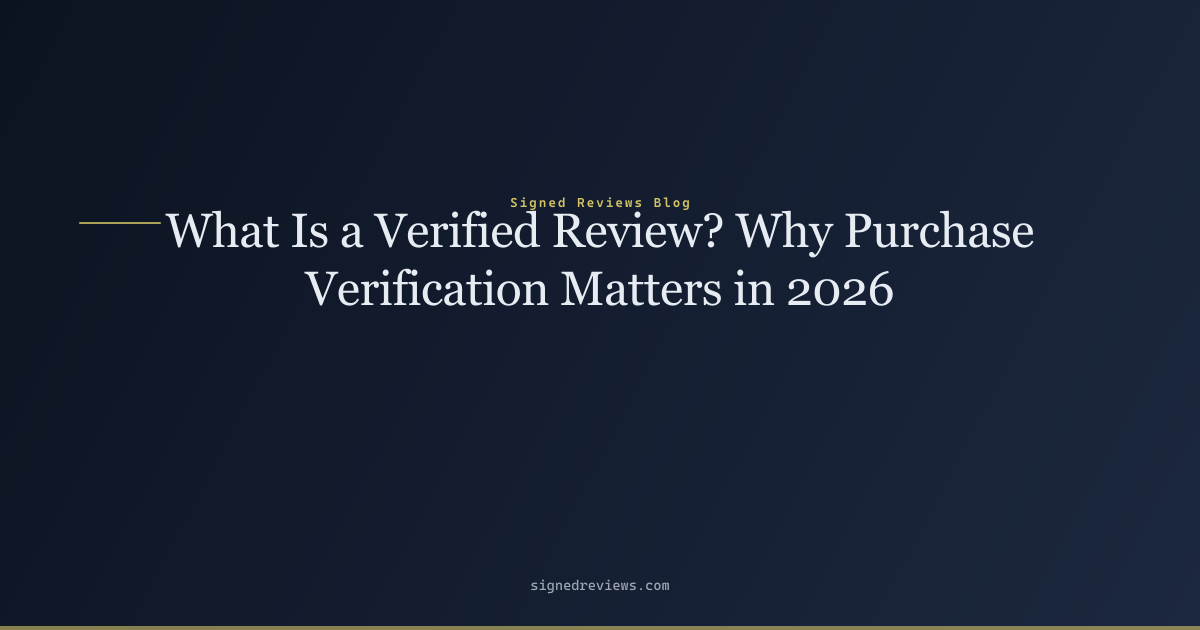
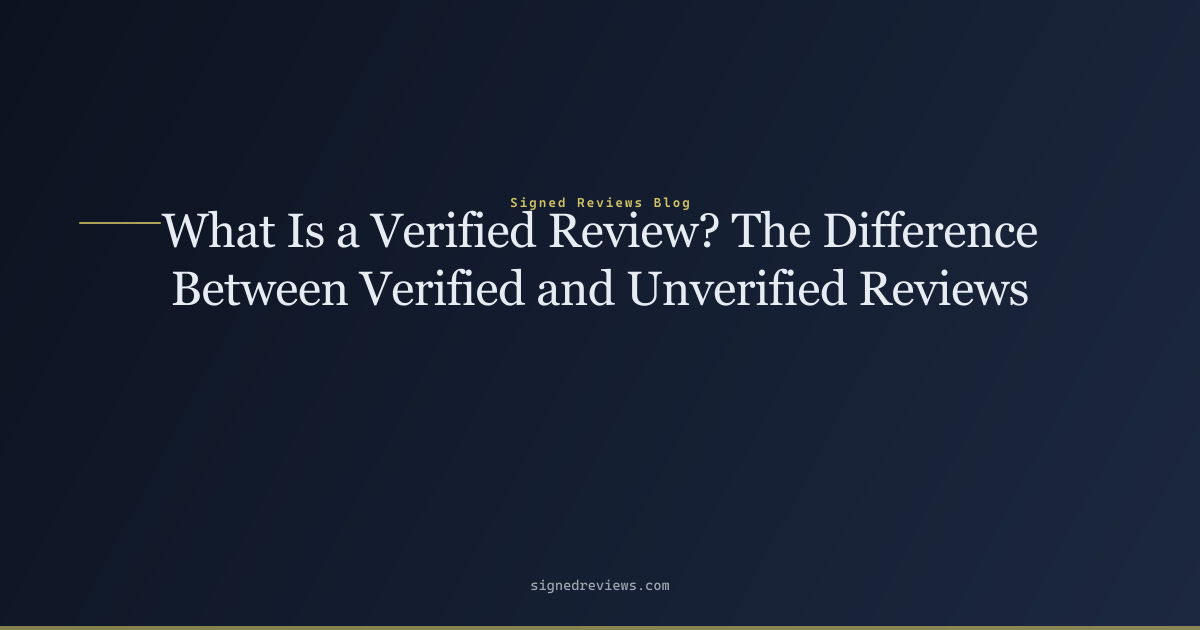
SEO: improve difference between verified and unverified reviews
- Title now contains exact keyword phrase
- Meta description includes keyword
- New H2: 'The difference between verified and unverified reviews'
- Body mentions: 3x natural placements
- Internal links to /how-it-works/ and /pricing/

Changed region(s): [[0.1233, 0.4222, 0.8633, 0.4825], [0.1233, 0.3317, 0.8633, 0.3921]]

diff --git a/blog/what-is-a-verified-review/index.html b/blog/what-is-a-verified-review/index.html
@@ -3,21 +3,21 @@
 <head>
   <meta charset="UTF-8">
   <meta name="viewport" content="width=device-width, initial-scale=1.0">
-  <title>What Is a Verified Review? Why Purchase Verification Matters in 2026 — Signed Reviews Blog</title>
-  <meta name="description" content="What is a verified review? It's a review tied to proof of a real purchase — independently confirmed, not self-attested. Here's how verification works and why it">
+  <title>What Is a Verified Review? The Difference Between Verified and Unverified Reviews — Signed Reviews Blog</title>
+  <meta name="description" content="What is a verified review, and what makes it &quot;verified&quot;?">
   <link rel="canonical" href="https://signedreviews.com/blog/what-is-a-verified-review/">
   <meta name="robots" content="index, follow">
   <meta name="theme-color" content="#0c1320">
 
   <meta property="og:type" content="website">
-  <meta property="og:title" content="What Is a Verified Review? Why Purchase Verification Matters in 2026 — Signed Reviews Blog">
-  <meta property="og:description" content="What is a verified review? It's a review tied to proof of a real purchase — independently confirmed, not self-attested. Here's how verification works and why it">
+  <meta property="og:title" content="What Is a Verified Review? The Difference Between Verified and Unverified Reviews — Signed Reviews Blog">
+  <meta property="og:description" content="What is a verified review, and what makes it &quot;verified&quot;?">
   <meta property="og:url" content="https://signedreviews.com/blog/what-is-a-verified-review/">
   <meta property="og:site_name" content="Signed Reviews">
   <meta property="og:image" content="https://signedreviews.com/images/SignedReviews_full_logo.png">
   <meta name="twitter:card" content="summary_large_image">
-  <meta name="twitter:title" content="What Is a Verified Review? Why Purchase Verification Matters in 2026 — Signed Reviews Blog">
-  <meta name="twitter:description" content="What is a verified review? It's a review tied to proof of a real purchase — independently confirmed, not self-attested. Here's how verification works and why it">
+  <meta name="twitter:title" content="What Is a Verified Review? The Difference Between Verified and Unverified Reviews — Signed Reviews Blog">
+  <meta name="twitter:description" content="What is a verified review, and what makes it &quot;verified&quot;?">
 
   <link rel="icon" href="/SignedReviews/favicon.svg" type="image/svg+xml">
   <link rel="icon" type="image/png" sizes="32x32" href="/SignedReviews/images/SignedReviews_logo_only.png">
@@ -483,7 +483,7 @@ main { padding: 0; }
     })();
   </script>
 
-  <script type="application/ld+json">{"@context":"https://schema.org","@type":"BlogPosting","headline":"What Is a Verified Review? Why Purchase Verification Matters in 2026","description":"What is a verified review? It's a review tied to proof of a real purchase — independently confirmed, not self-attested. Here's how verification works and why it","datePublished":"2026-07-04 ·","author":{"@type":"Organization","name":"Signed Reviews"},"publisher":{"@type":"Organization","name":"Signed Reviews","logo":{"@type":"ImageObject","url":"https://signedreviews.com/images/SignedReviews_logo_only.png"}}}</script>
+  <script type="application/ld+json">{"@context":"https://schema.org","@type":"BlogPosting","headline":"What Is a Verified Review? The Difference Between Verified and Unverified Reviews","description":"What is a verified review, and what makes it \"verified\"?","datePublished":"2026-07-04 ·","author":{"@type":"Organization","name":"Signed Reviews"},"publisher":{"@type":"Organization","name":"Signed Reviews","logo":{"@type":"ImageObject","url":"https://signedreviews.com/images/SignedReviews_logo_only.png"}}}</script>
 </head>
 <body>
   <a class="skip-link" href="#main">Skip to main content</a>
@@ -524,15 +524,15 @@ main { padding: 0; }
     <section class="page-hero">
       <div class="page-hero-inner">
         <span class="eyebrow">Blog</span>
-        <h1>What Is a Verified Review? Why Purchase Verification Matters in 2026</h1>
-        <p>What is a verified review? It's a review tied to proof of a real purchase — independently confirmed, not self-attested. Here's how verification works and why it</p>
+        <h1>What Is a Verified Review? The Difference Between Verified and Unverified Reviews</h1>
+        <p>What is a verified review, and what makes it "verified"?</p>
       </div>
     </section>
     <div class="prose-wrap">
       <article class="prose" style="max-width: var(--max-prose)">
       <p class="post-meta" style="color:var(--muted);font-size:.9rem;margin-bottom:1.5rem;">2026-07-04 ·</p>
-      <p>Online reviews are broken. In 2022 alone, Trustpilot removed 2.7 million fake reviews from its platform. Amazon battles an endless flood of paid and incentivized reviews. Yelp&#39;s recommendation software struggles to separate genuine experiences from noise. The fundamental problem: <strong>anyone can write a review, whether they purchased the product or not.</strong></p>
-<p>What is a verified review? It&#39;s a review tied to proof of a real purchase — independently confirmed, not self-attested. Here&#39;s how verification works and why it matters.</p>
+      <p>Online reviews are broken. In 2022 alone, Trustpilot removed 2.7 million fake reviews from its platform. Amazon battles an endless flood of paid and incentivized reviews. The fundamental problem: <strong>anyone can write a review, whether they purchased the product or not.</strong></p>
+<p>The difference between verified and unverified reviews comes down to proof. What is a verified review? It&#39;s a review tied to proof of a real purchase — independently confirmed, not self-attested. An unverified review needs no proof at all. Here&#39;s how verification works and why that difference matters to your business.</p>
 <p>A <strong>verified review</strong> solves this by tying each review to proof of purchase. It&#39;s the difference between &quot;someone on the internet said this&quot; and &quot;a real customer who actually paid for this product said this.&quot;</p>
 <h2 id="what-is-a-verified-review-and-what-makes-it-quotverifiedquot"><a class="anchor" href="#what-is-a-verified-review-and-what-makes-it-quotverifiedquot" aria-label="Permalink to What is a verified review, and what makes it &amp;quot;verified&amp;quot;?">#</a> What is a verified review, and what makes it &quot;verified&quot;?</h2>
 <p>A verified review connects three things that most review platforms keep separate:</p>
@@ -556,8 +556,8 @@ main { padding: 0; }
 <li>The customer clicks the link, writes their review, and submits it. The review is cryptographically signed at the moment of submission.</li>
 </ol>
 <p><strong>No purchase → no invitation → no review.</strong> It&#39;s structural, not reactive.</p>
-<h2 id="why-it-matters-for-your-business"><a class="anchor" href="#why-it-matters-for-your-business" aria-label="Permalink to Why it matters for your business">#</a> Why it matters for your business</h2>
-<p>Verified reviews are worth more than unverified ones — to your customers and to search engines:</p>
+<h2 id="the-difference-between-verified-and-unverified-reviews-why-it-matters-for-your-b"><a class="anchor" href="#the-difference-between-verified-and-unverified-reviews-why-it-matters-for-your-b" aria-label="Permalink to The difference between verified and unverified reviews: why it matters for your business">#</a> The difference between verified and unverified reviews: why it matters for your business</h2>
+<p>Understanding the difference between verified and unverified reviews directly impacts your bottom line — here&#39;s how:</p>
 <ul>
 <li><strong>Higher trust</strong>: 98% of consumers read reviews before buying (BrightLocal, 2023). A review with purchase verification is inherently more trustworthy than one without.</li>
 <li><strong>Better conversion</strong>: Verified reviews can increase conversion by up to 270% (Spiegel Research Center).</li>
@@ -566,8 +566,8 @@ main { padding: 0; }
 </ul>
 <h2 id="the-future-of-reviews-is-verified"><a class="anchor" href="#the-future-of-reviews-is-verified" aria-label="Permalink to The future of reviews is verified">#</a> The future of reviews is verified</h2>
 <p>As AI-generated content becomes indistinguishable from human-written text, proof of authenticity becomes more valuable — not less. A verified review is proof that a real human made a real purchase and had a real opinion. That&#39;s something no AI can fake.</p>
-<p>If you process payments through Stripe, purchase verification is a solved problem. It takes one click to connect, and every review you collect from that point forward is backed by proof of purchase.</p>
-<p><strong>Further reading:</strong> <a href="/blog/stripe-verified-reviews/">Stripe Verified Reviews</a> explains why processor-attested verification is the only level where an independent party confirms the transaction. And <a href="/learn/what-does-verified-buyer-mean/">What Does &quot;Verified Buyer&quot; Actually Mean?</a> breaks down what the badge means — platform by platform.</p>
+<p>If you process payments through Stripe, purchase verification is a solved problem. <a href="/how-it-works/">See how the verification engine works</a> — it takes one click to connect, and every review you collect from that point forward is backed by proof of purchase. The difference between verified and unverified reviews is the difference between trust and guesswork.</p>
+<p><strong>Further reading:</strong> <a href="/blog/stripe-verified-reviews/">Stripe Verified Reviews</a> explains why processor-attested verification is the only level where an independent party confirms the transaction. And <a href="/pricing/">see plans starting at $29/mo</a> to start collecting purchase-verified reviews today.</p>
 
       <p style="margin-top:2.5rem;padding-top:1.5rem;border-top:1px solid var(--border);">
         <a href="/SignedReviews/blog/">← Back to blog</a>

diff --git a/blog/index.html b/blog/index.html
@@ -531,9 +531,9 @@ main { padding: 0; }
     <p>Insights on review authenticity, e-commerce trust, Stripe integrations, and verified customer reviews from the Signed Reviews team.</p>
     
     <div style="margin-bottom:1.5rem;padding-bottom:1.5rem;border-bottom:1px solid var(--border);">
-      <h2 style="margin:0 0 .3rem;font-size:1.25rem;"><a href="/SignedReviews/blog/what-is-a-verified-review/" style="text-decoration:none;">What Is a Verified Review? Why Purchase Verification Matters in 2026</a></h2>
+      <h2 style="margin:0 0 .3rem;font-size:1.25rem;"><a href="/SignedReviews/blog/what-is-a-verified-review/" style="text-decoration:none;">What Is a Verified Review? The Difference Between Verified and Unverified Reviews</a></h2>
       <p class="post-meta" style="color:var(--muted);font-size:.85rem;margin:0 0 .4rem;">2026-07-04 ·</p>
-      <p style="margin:0;color:var(--text);font-size:.95rem;">What is a verified review? It's a review tied to proof of a real purchase — independently confirmed, not self-attested. Here's how verification works and why it</p>
+      <p style="margin:0;color:var(--text);font-size:.95rem;">What is a verified review, and what makes it &quot;verified&quot;?</p>
     </div>
     <div style="margin-bottom:1.5rem;padding-bottom:1.5rem;border-bottom:1px solid var(--border);">
       <h2 style="margin:0 0 .3rem;font-size:1.25rem;"><a href="/SignedReviews/blog/trustpilot-pricing-explained/" style="text-decoration:none;">Trustpilot Pricing Explained: What Each Plan Actually Costs in 2026</a></h2>

diff --git a/files/blog/what-is-a-verified-review.md b/files/blog/what-is-a-verified-review.md
@@ -1,12 +1,12 @@
-# What Is a Verified Review? Why Purchase Verification Matters in 2026
+# What Is a Verified Review? The Difference Between Verified and Unverified Reviews
 
-**Published:** 2026-07-04 · **Author:** Signed Reviews Team · **Description:** What is a verified review? It ties a review to proof of a real purchase — what 'verified' means, how platforms verify, and why it stops fake reviews.
+**Published:** 2026-07-04 · **Updated:** 2026-07-28 · **Author:** Signed Reviews Team · **Description:** Understanding the difference between verified and unverified reviews matters for every business collecting customer feedback. Here's what verification means, how it works, and why purchase proof stops fake reviews.
 
 ---
 
-Online reviews are broken. In 2022 alone, Trustpilot removed 2.7 million fake reviews from its platform. Amazon battles an endless flood of paid and incentivized reviews. Yelp's recommendation software struggles to separate genuine experiences from noise. The fundamental problem: **anyone can write a review, whether they purchased the product or not.**
+Online reviews are broken. In 2022 alone, Trustpilot removed 2.7 million fake reviews from its platform. Amazon battles an endless flood of paid and incentivized reviews. The fundamental problem: **anyone can write a review, whether they purchased the product or not.**
 
-What is a verified review? It's a review tied to proof of a real purchase — independently confirmed, not self-attested. Here's how verification works and why it matters.
+The difference between verified and unverified reviews comes down to proof. What is a verified review? It's a review tied to proof of a real purchase — independently confirmed, not self-attested. An unverified review needs no proof at all. Here's how verification works and why that difference matters to your business.
 
 A **verified review** solves this by tying each review to proof of purchase. It's the difference between "someone on the internet said this" and "a real customer who actually paid for this product said this."
 
@@ -40,9 +40,9 @@ Here's how it works with Signed Reviews:
 
 **No purchase → no invitation → no review.** It's structural, not reactive.
 
-## Why it matters for your business
+## The difference between verified and unverified reviews: why it matters for your business
 
-Verified reviews are worth more than unverified ones — to your customers and to search engines:
+Understanding the difference between verified and unverified reviews directly impacts your bottom line — here's how:
 
 - **Higher trust**: 98% of consumers read reviews before buying (BrightLocal, 2023). A review with purchase verification is inherently more trustworthy than one without.
 - **Better conversion**: Verified reviews can increase conversion by up to 270% (Spiegel Research Center).
@@ -53,6 +53,6 @@ Verified reviews are worth more than unverified ones — to your customers and t
 
 As AI-generated content becomes indistinguishable from human-written text, proof of authenticity becomes more valuable — not less. A verified review is proof that a real human made a real purchase and had a real opinion. That's something no AI can fake.
 
-If you process payments through Stripe, purchase verification is a solved problem. It takes one click to connect, and every review you collect from that point forward is backed by proof of purchase.
+If you process payments through Stripe, purchase verification is a solved problem. <a href="/how-it-works/">See how the verification engine works</a> — it takes one click to connect, and every review you collect from that point forward is backed by proof of purchase. The difference between verified and unverified reviews is the difference between trust and guesswork.
 
-**Further reading:** [Stripe Verified Reviews](/blog/stripe-verified-reviews/) explains why processor-attested verification is the only level where an independent party confirms the transaction. And [What Does "Verified Buyer" Actually Mean?](/learn/what-does-verified-buyer-mean/) breaks down what the badge means — platform by platform.
+**Further reading:** [Stripe Verified Reviews](/blog/stripe-verified-reviews/) explains why processor-attested verification is the only level where an independent party confirms the transaction. And <a href="/pricing/">see plans starting at $29/mo</a> to start collecting purchase-verified reviews today.
